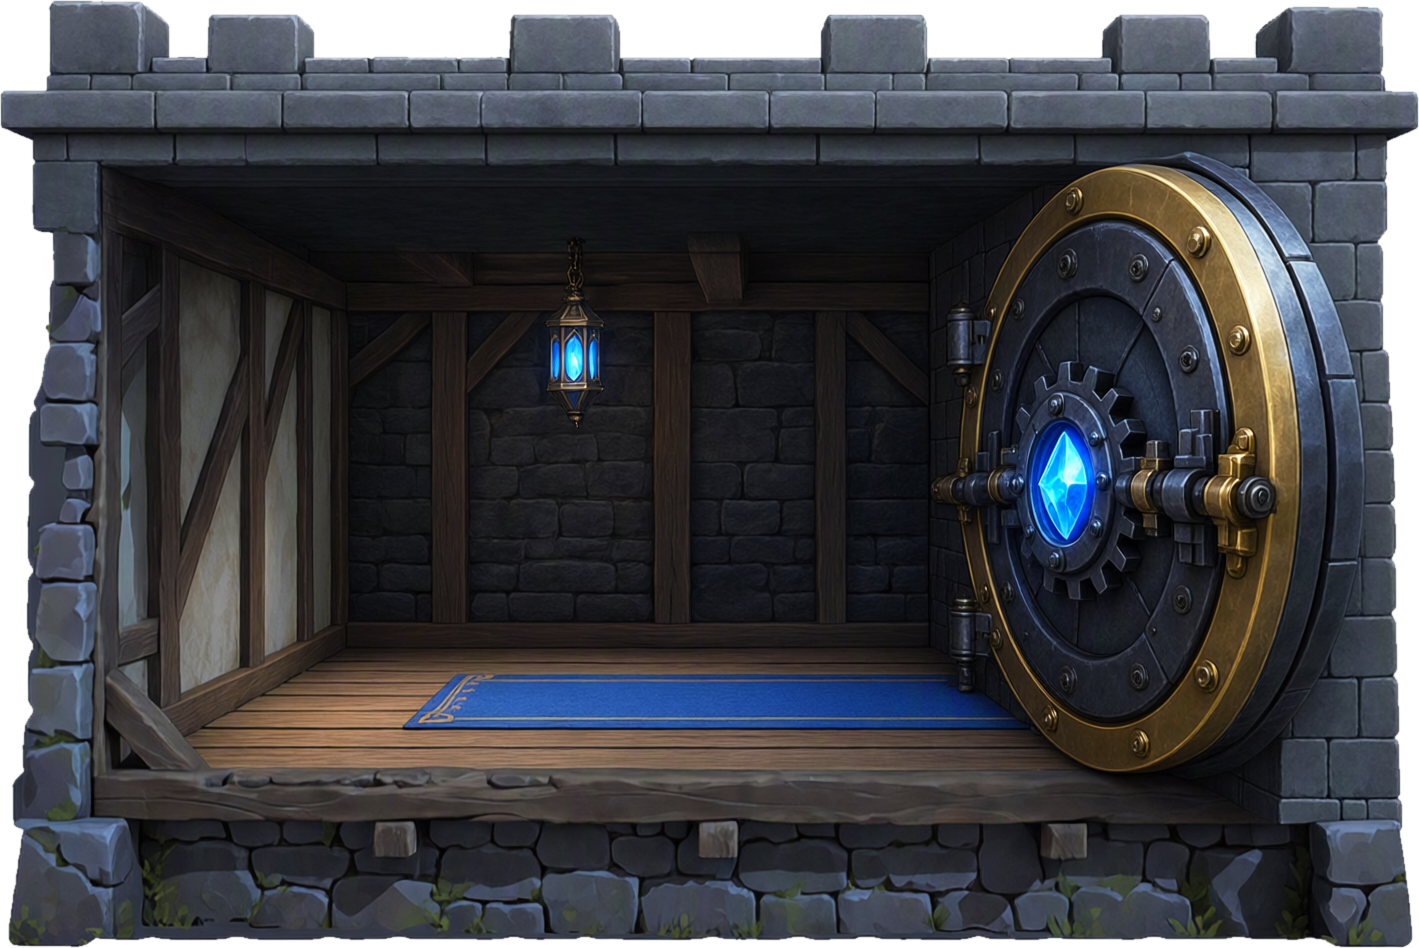
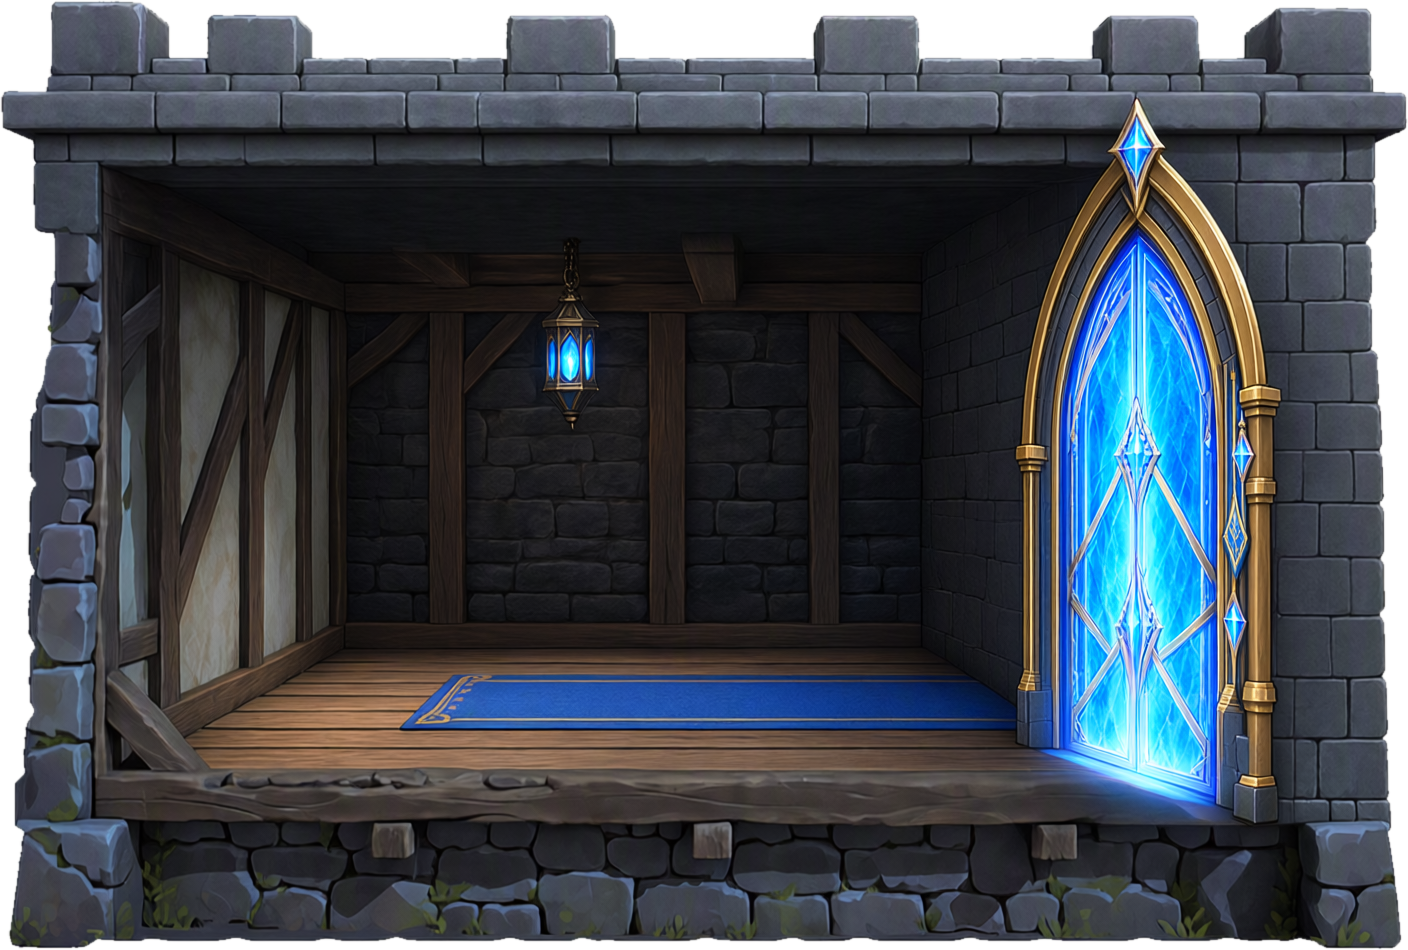
Tower: the Gate hall shows the Celestium gate again, not a vault door (TT 10.5.0b)
Flat-roofed entrance hall with the tall arched crystal gate filling its outer
wall; band widened to keep the gate's crystal peak.

diff --git a/Tools/build_room_art_manifest.py b/Tools/build_room_art_manifest.py
@@ -28,7 +28,7 @@ SPECIAL = {
     'kitchen_interior_v1': ('kitchen', 'B', FULL),
     'guild_hall_F_v2': ('guild_hall', 'F', {'left': 0.04, 'right': 0.96, 'bottom': 0.145, 'top': 0.695}),
     # The Gate's cell: a short hallway with the gate in its outer (east) wall; the west Gate draws it mirrored.
-    'gate_hall': ('gate', 'F', {'left': 0.0, 'right': 1.0, 'bottom': 0.17, 'top': 0.84, 'align': 1.0}),
+    'gate_hall': ('gate', 'F', {'left': 0.0, 'right': 1.0, 'bottom': 0.15, 'top': 0.9, 'align': 1.0}),
 }
 # Superseded by a special picture at the same rank; gate_F is a guardroom painting, not a gate.
 REPLACED = {'guild_hall_F', 'gate_F'}
